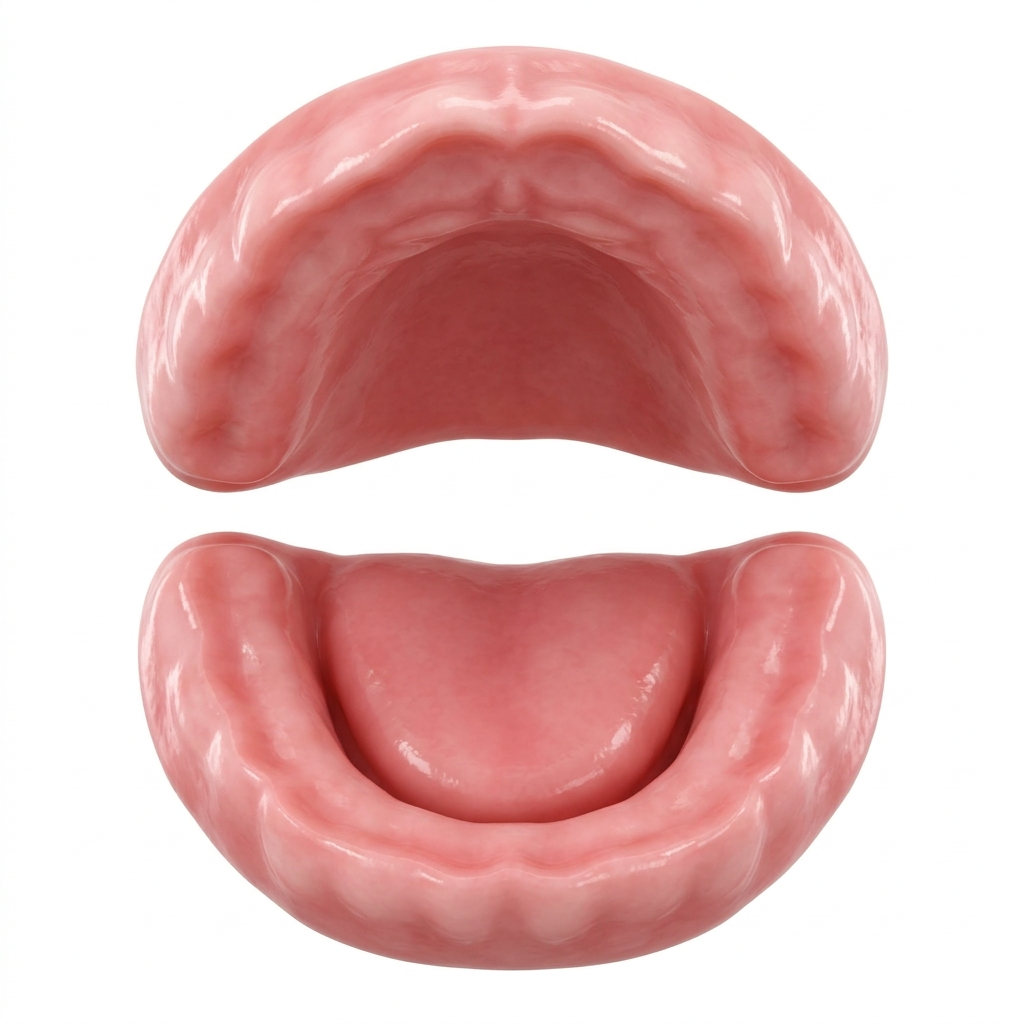
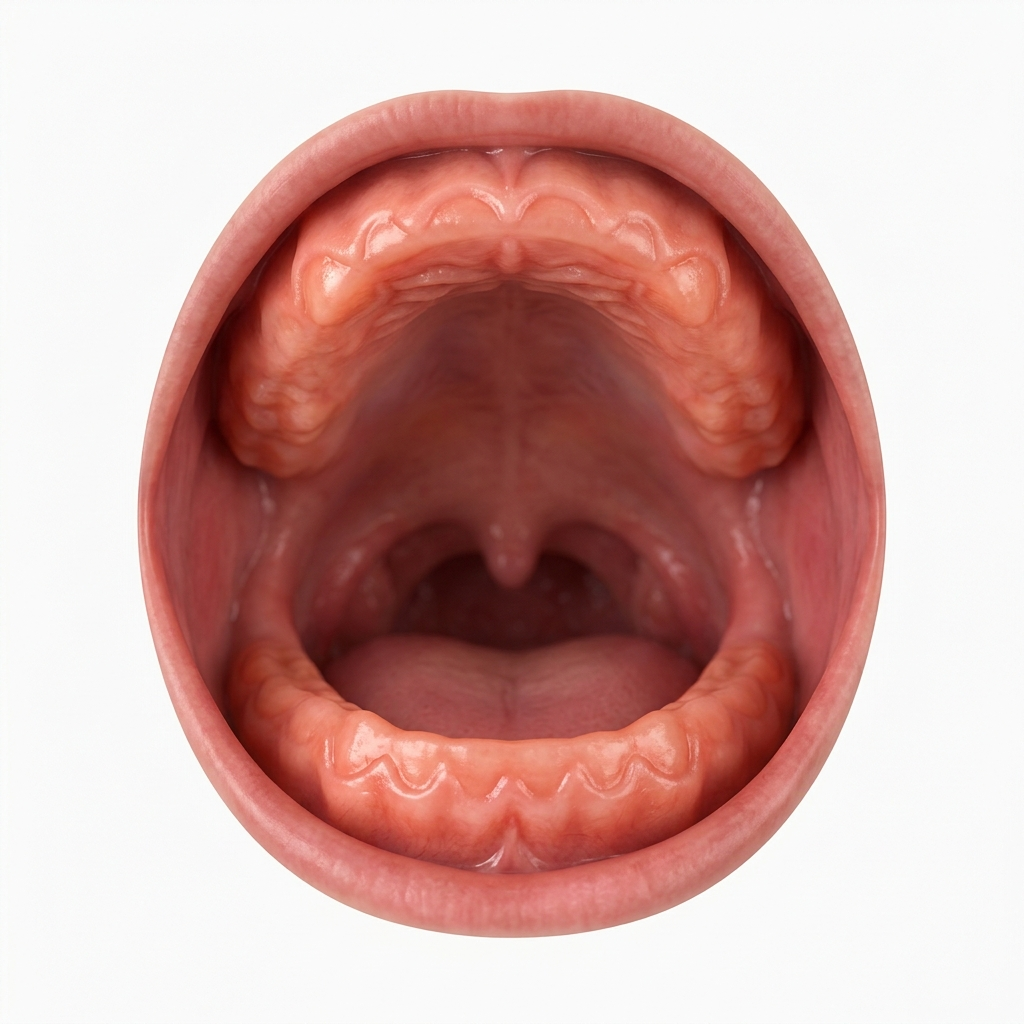
Upgrade dental map with ultra-realistic gum image and recalibrated tooth spots

diff --git a/src/components/TeethMap.css b/src/components/TeethMap.css
@@ -85,29 +85,29 @@
   opacity: 1;
 }
 
-/* Coordinates for the 20 teeth (Top Arch) */
-.pos-t1 { top: 38%; left: 16%; }
-.pos-t2 { top: 30%; left: 21%; }
-.pos-t3 { top: 22%; left: 29%; }
-.pos-t4 { top: 17%; left: 38%; }
-.pos-t5 { top: 15%; left: 46%; }
-.pos-t6 { top: 15%; left: 54%; }
-.pos-t7 { top: 17%; left: 62%; }
-.pos-t8 { top: 22%; left: 71%; }
-.pos-t9 { top: 30%; left: 79%; }
-.pos-t10 { top: 38%; left: 84%; }
+/* Coordinates for the 10 teeth (Top Arch — visible upper gum ~18-40% from top) */
+.pos-t1 { top: 36%; left: 18%; }
+.pos-t2 { top: 27%; left: 24%; }
+.pos-t3 { top: 21%; left: 32%; }
+.pos-t4 { top: 18%; left: 41%; }
+.pos-t5 { top: 17%; left: 50%; }
+.pos-t6 { top: 18%; left: 58%; }
+.pos-t7 { top: 21%; left: 67%; }
+.pos-t8 { top: 27%; left: 75%; }
+.pos-t9 { top: 35%; left: 80%; }
+.pos-t10 { top: 40%; left: 84%; }
 
-/* Coordinates for the 20 teeth (Bottom Arch) */
-.pos-b1 { top: 62%; left: 16%; }
-.pos-b2 { top: 70%; left: 21%; }
-.pos-b3 { top: 78%; left: 29%; }
-.pos-b4 { top: 83%; left: 38%; }
-.pos-b5 { top: 85%; left: 46%; }
-.pos-b6 { top: 85%; left: 54%; }
-.pos-b7 { top: 83%; left: 62%; }
-.pos-b8 { top: 78%; left: 71%; }
-.pos-b9 { top: 70%; left: 79%; }
-.pos-b10 { top: 62%; left: 84%; }
+/* Coordinates for the 10 teeth (Bottom Arch — visible lower gum ~58-82% from top) */
+.pos-b1 { top: 72%; left: 16%; }
+.pos-b2 { top: 78%; left: 22%; }
+.pos-b3 { top: 82%; left: 30%; }
+.pos-b4 { top: 84%; left: 40%; }
+.pos-b5 { top: 85%; left: 49%; }
+.pos-b6 { top: 85%; left: 57%; }
+.pos-b7 { top: 83%; left: 65%; }
+.pos-b8 { top: 80%; left: 73%; }
+.pos-b9 { top: 76%; left: 79%; }
+.pos-b10 { top: 70%; left: 83%; }
 
 /* Modal overlay */
 .tooth-modal-overlay {
